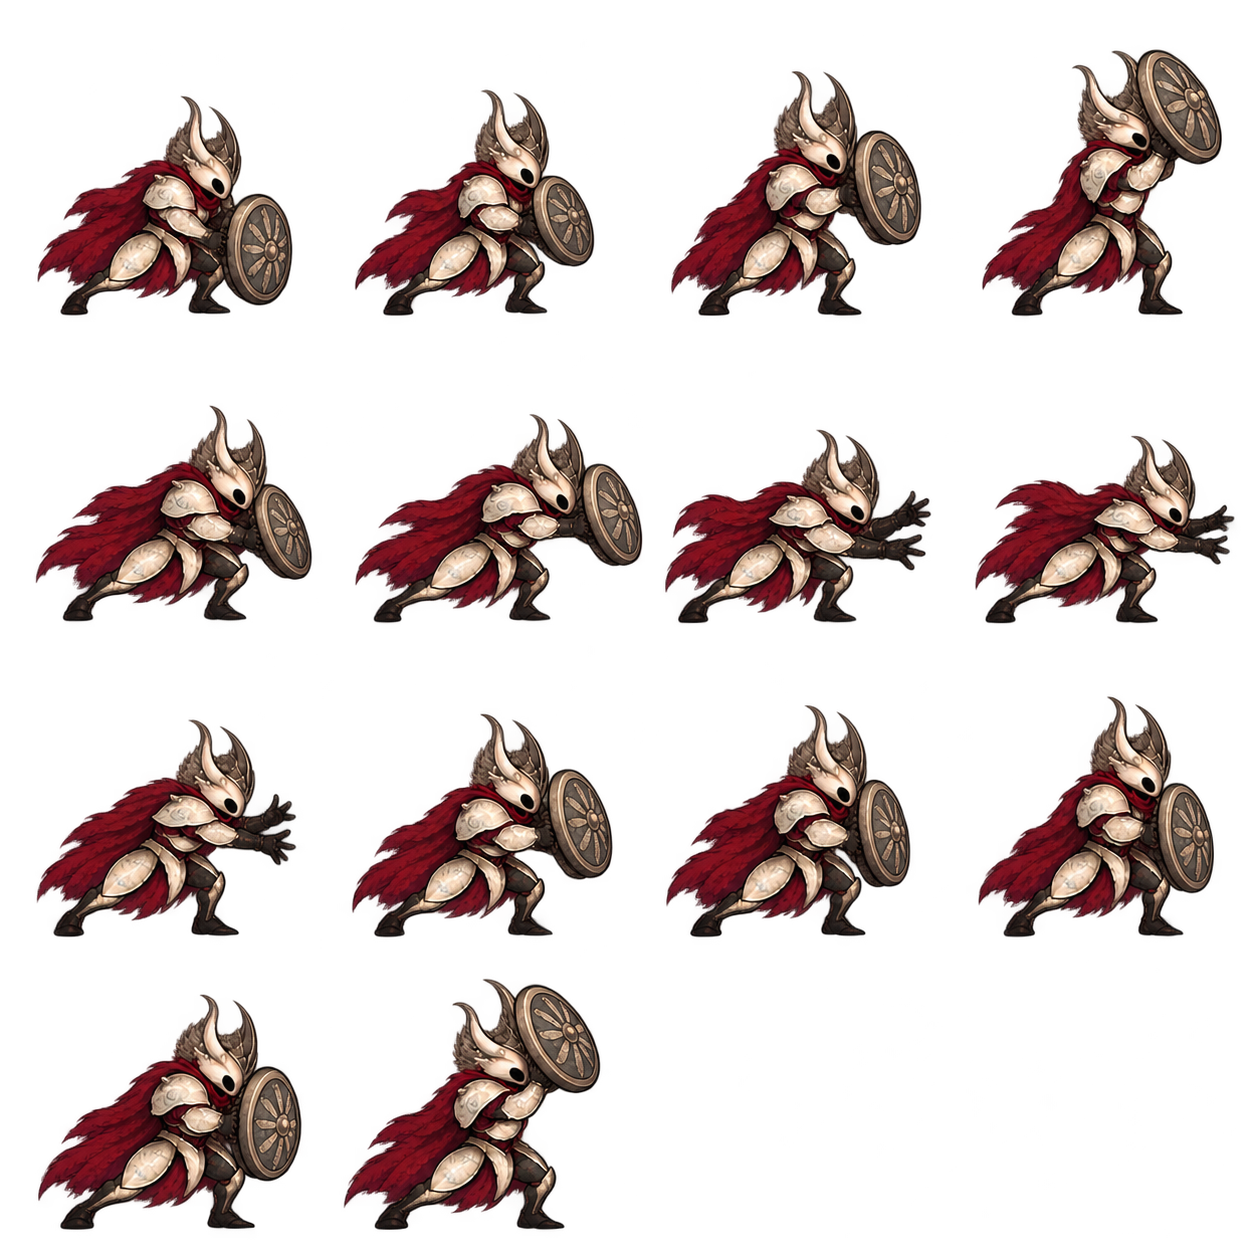
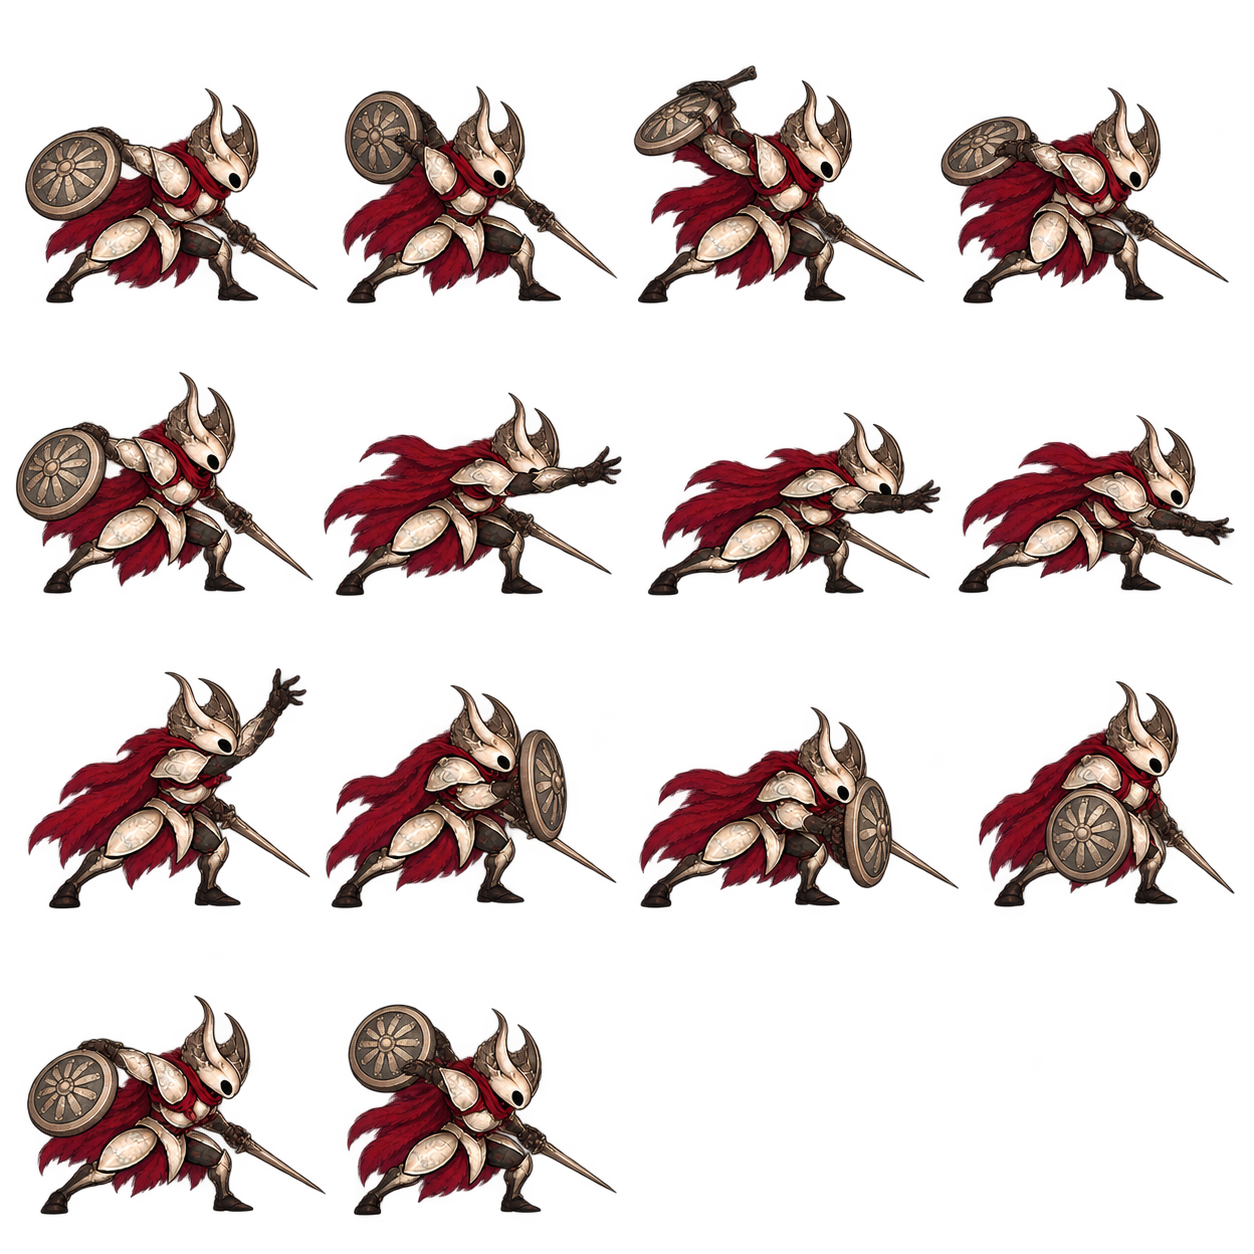
art: redraw echo elite throw with sword and no shield ghosts

diff --git a/art_requests/creature_attacks_v1/incoming/README.md b/art_requests/creature_attacks_v1/incoming/README.md
@@ -102,3 +102,5 @@
 重画记录（2026-10-18）：`crossbow_low.png` — 单膝跪地、拉弦、低位瞄准、明显后坐及起身回收分开绘制；保留 14 格与原骨弩比例。
 
 重画记录（2026-10-18）：`echo_wheel_wave.png` — 14 格均保留原长剑与一面轮盾，分开抬盾、下砸推进及回收动作，补回原版缺失的剑。
+
+重画记录（2026-10-18）：`echo_wheel_elite.png` — 长剑在 14 格全程可见；第 6–9 格持盾手为空，接回后只保留一面盾牌，移除投盾残影。
